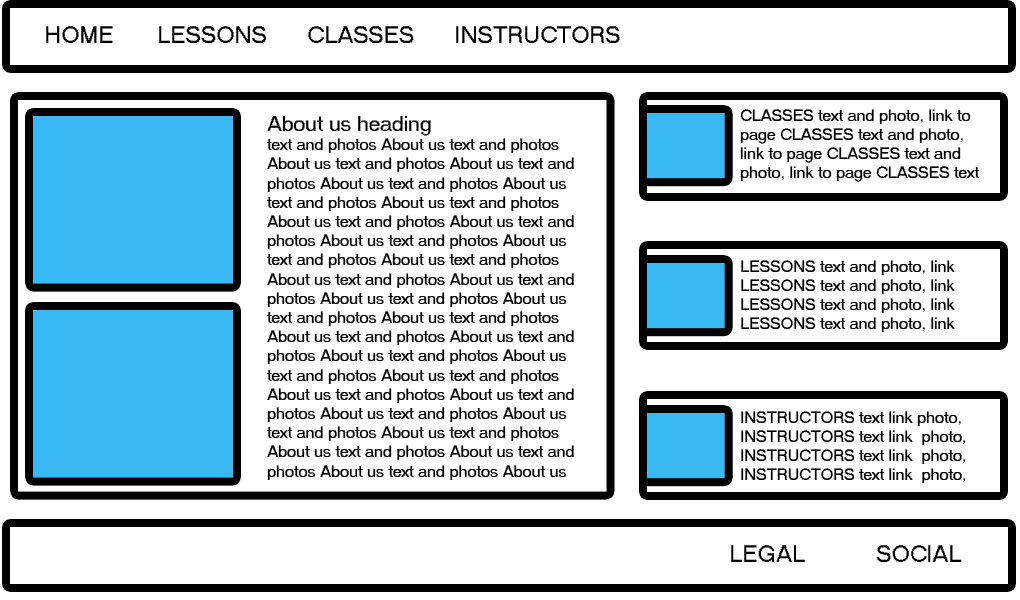
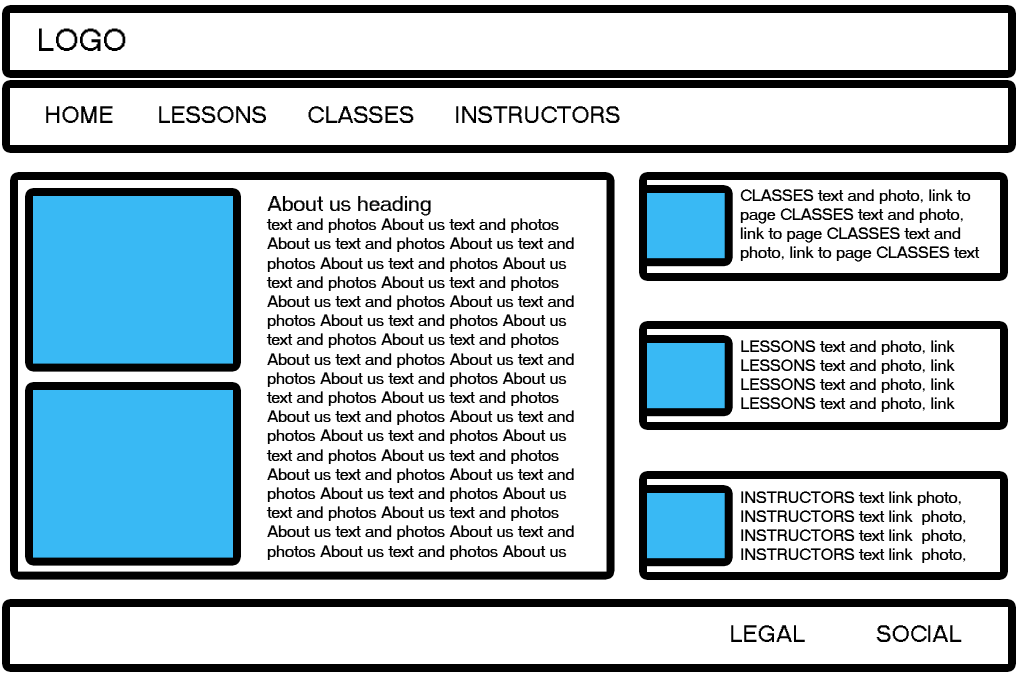
added header to sketches/ first home page HTML

diff --git a/index.html b/index.html
@@ -1,0 +1,42 @@
+<!DOCTYPE html>
+<html>
+<head>
+    <title>Straight to the Point Archery Lessons, Classes and Information</title>
+    <meta charset="UTF-8">
+</head>
+<body>
+  <header><img src="images/logo.jpg" alt="Straight To The Point Logo"></header>
+  <nav>
+    <ul>
+      <li><a href="index.html" target="self">Home</a></li>
+      <li><a href="lessons.html" target="self">Lessons</a></li>
+      <li><a href="classes.html" target="self">Classes</a></li>
+      <li><a href="instructors.html" target="self">Instructors</a></li>
+    </ul>
+  </nav>
+  <main>
+    <img src="images/some.jpg" alt="Some Image">
+    <img src="images/some.jpg" alt="Some Image">
+    <p>Welcome and About us Text</p>
+  </main>
+  <section id="sideLes">
+    <img src="images/some.jpg" alt="Some Image">
+    <p>Blurb and link to lessons</p>
+  </section>
+  <section id="sideCla">
+  <img src="images/some.jpg" alt="Some Image">
+    <p>Blurb and link to classes</p>
+  </section>
+  <section id="sideIns">
+  <img src="images/some.jpg" alt="Some Image">
+    <p>Blurb and link to instructors</p>
+  </section>
+  <footer>
+    <ul>
+      <li><a href="legal.html" target="self">Legal</a></li>
+      <li><a href="social.html" target="blank">
+          <img src="images/social.jpg" alt="Social Media Logo"></a></li>
+    </ul>
+  </footer>  
+</body>
+</html>
